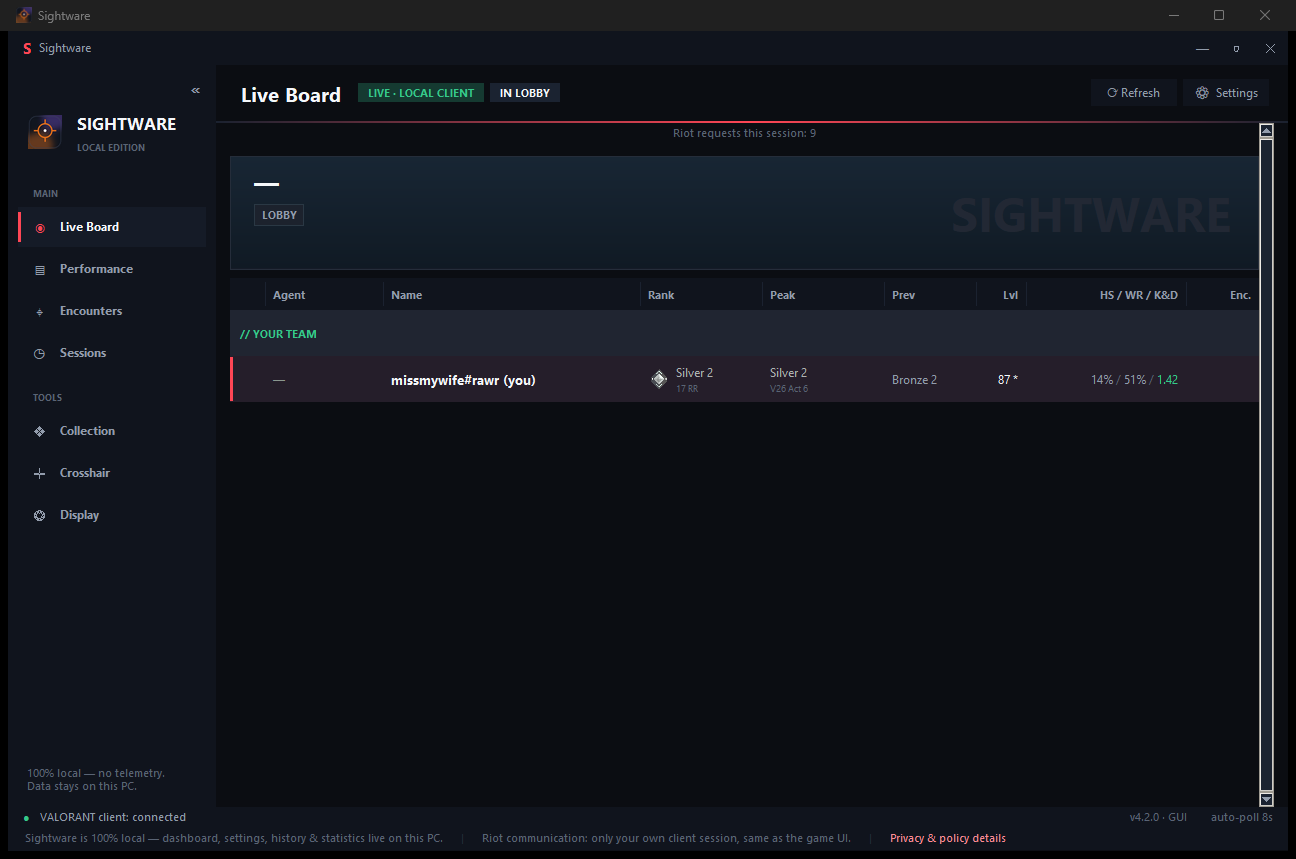
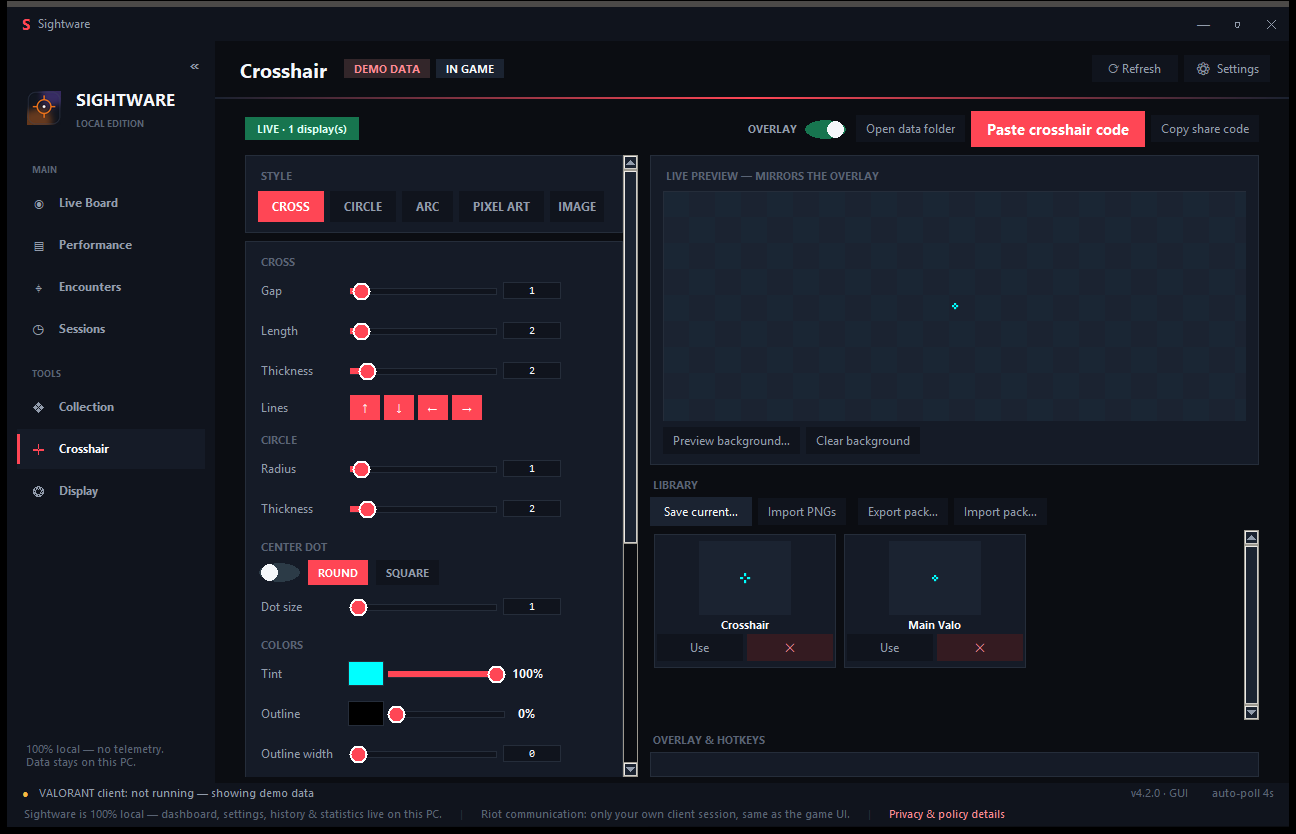
fix: remove the double title bar
The custom title bar shipped without actually making the window
frameless — the native caption and the custom bar both showed. The
window now strips WS_CAPTION via style bits while keeping
WS_THICKFRAME: no native title bar, but native resize edges, Aero Snap
and the taskbar button all remain. Maximize uses the system work area
so the taskbar is never covered, and the style is re-asserted on every
window map (maximize/minimize can re-add the caption).

diff --git a/gui/app.py b/gui/app.py
@@ -67,6 +67,7 @@ class SightwareApp(tk.Tk):
         self.configure(background=BG)
         self.geometry("1280x820")
         self.minsize(1080, 660)
+        self._frameless = True   # custom title bar replaces the native caption
 
         # core first: window restore and the art cache both read settings
         self.core = AppCore()
@@ -111,6 +112,8 @@ class SightwareApp(tk.Tk):
 
         self.core.start_services()
         self.after(500, self._start_crosshair_engine)
+        self.bind("<Map>", lambda e: self.after(10, self._apply_frameless_style))
+        self.after(80, self._apply_frameless_style)
         self.after(2500, self._startup_update_check)
         self.protocol("WM_DELETE_WINDOW", self._on_close)
         self.bind("<F5>", lambda e: self.force_refresh())
@@ -268,6 +271,34 @@ class SightwareApp(tk.Tk):
             self.show_tab("crosshair")
             self.toast.show(f'Loaded "{name}".', kind="ok")
 
+    # ── frameless window style ─────────────────────────────────
+    def _apply_frameless_style(self) -> None:
+        """Remove the native caption while keeping WS_THICKFRAME: the window
+        loses its title bar but keeps native resize edges, Aero Snap and the
+        taskbar button. Re-asserted on every <Map> (maximize/minimize can
+        re-add the caption)."""
+        if os.name != "nt" or not getattr(self, "_frameless", False):
+            return
+        try:
+            import ctypes
+            hwnd = ctypes.windll.user32.GetParent(self.winfo_id())
+            GWL_STYLE = -16
+            WS_CAPTION = 0x00C00000
+            WS_THICKFRAME = 0x00040000
+            style = ctypes.windll.user32.GetWindowLongPtrW(hwnd, GWL_STYLE)
+            if style & WS_CAPTION:
+                style = (style & ~WS_CAPTION) | WS_THICKFRAME
+                ctypes.windll.user32.SetWindowLongPtrW(hwnd, GWL_STYLE, style)
+                SWP_FRAMECHANGED = 0x0020
+                SWP_NOMOVE = 0x0002
+                SWP_NOSIZE = 0x0001
+                SWP_NOZORDER = 0x0004
+                ctypes.windll.user32.SetWindowPos(
+                    hwnd, 0, 0, 0, 0, 0,
+                    SWP_NOMOVE | SWP_NOSIZE | SWP_NOZORDER | SWP_FRAMECHANGED)
+        except Exception:
+            pass
+
     # ── custom title bar handlers ──────────────────────────────
     def _title_drag_start(self, e):
         self._drag_dx = e.x
@@ -281,15 +312,28 @@ class SightwareApp(tk.Tk):
     def _title_min(self):
         self.iconify()
 
+    def _work_area(self):
+        import ctypes
+        class RECT(ctypes.Structure):
+            _fields_ = [("l", ctypes.c_long), ("t", ctypes.c_long),
+                        ("r", ctypes.c_long), ("b", ctypes.c_long)]
+        rc = RECT()
+        ctypes.windll.user32.SystemParametersInfoW(0x0030, 0, ctypes.byref(rc), 0)
+        return rc.l, rc.t, rc.r - rc.l, rc.b - rc.t
+
     def _title_max(self):
-        try:
-            cur = self.state()
-            if cur == "zoomed":
-                self.state("normal")
-            else:
-                self.state("zoomed")
-        except Exception:
-            pass
+        # borderless maximize: size to the work area so the taskbar stays
+        if getattr(self, "_max_saved", None):
+            g = self._max_saved
+            self._max_saved = None
+            self.geometry(g)
+            self._apply_frameless_style()
+            return
+        l, t, w, h = self._work_area()
+        self._max_saved = self.geometry()
+        self.state("normal")
+        self.geometry(f"{w}x{h}+{l}+{t}")
+        self._apply_frameless_style()
 
     def _title_close(self):
         self._on_close()
